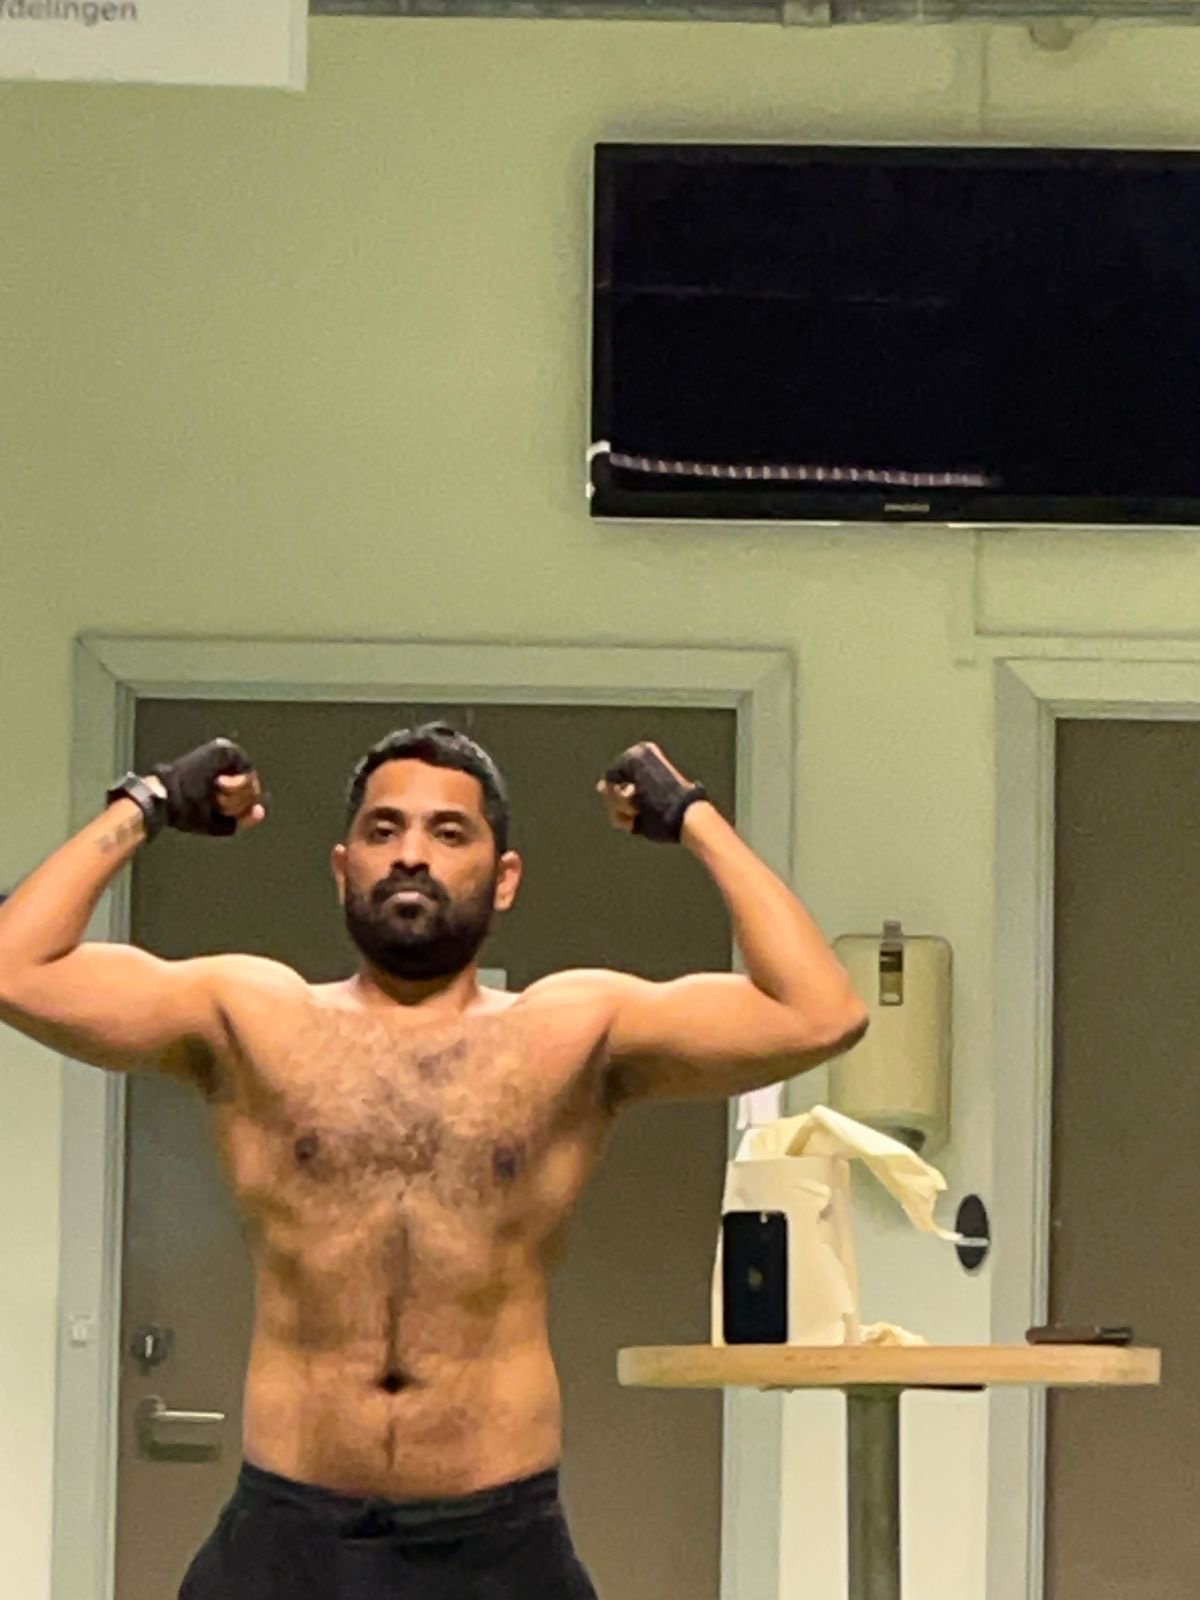
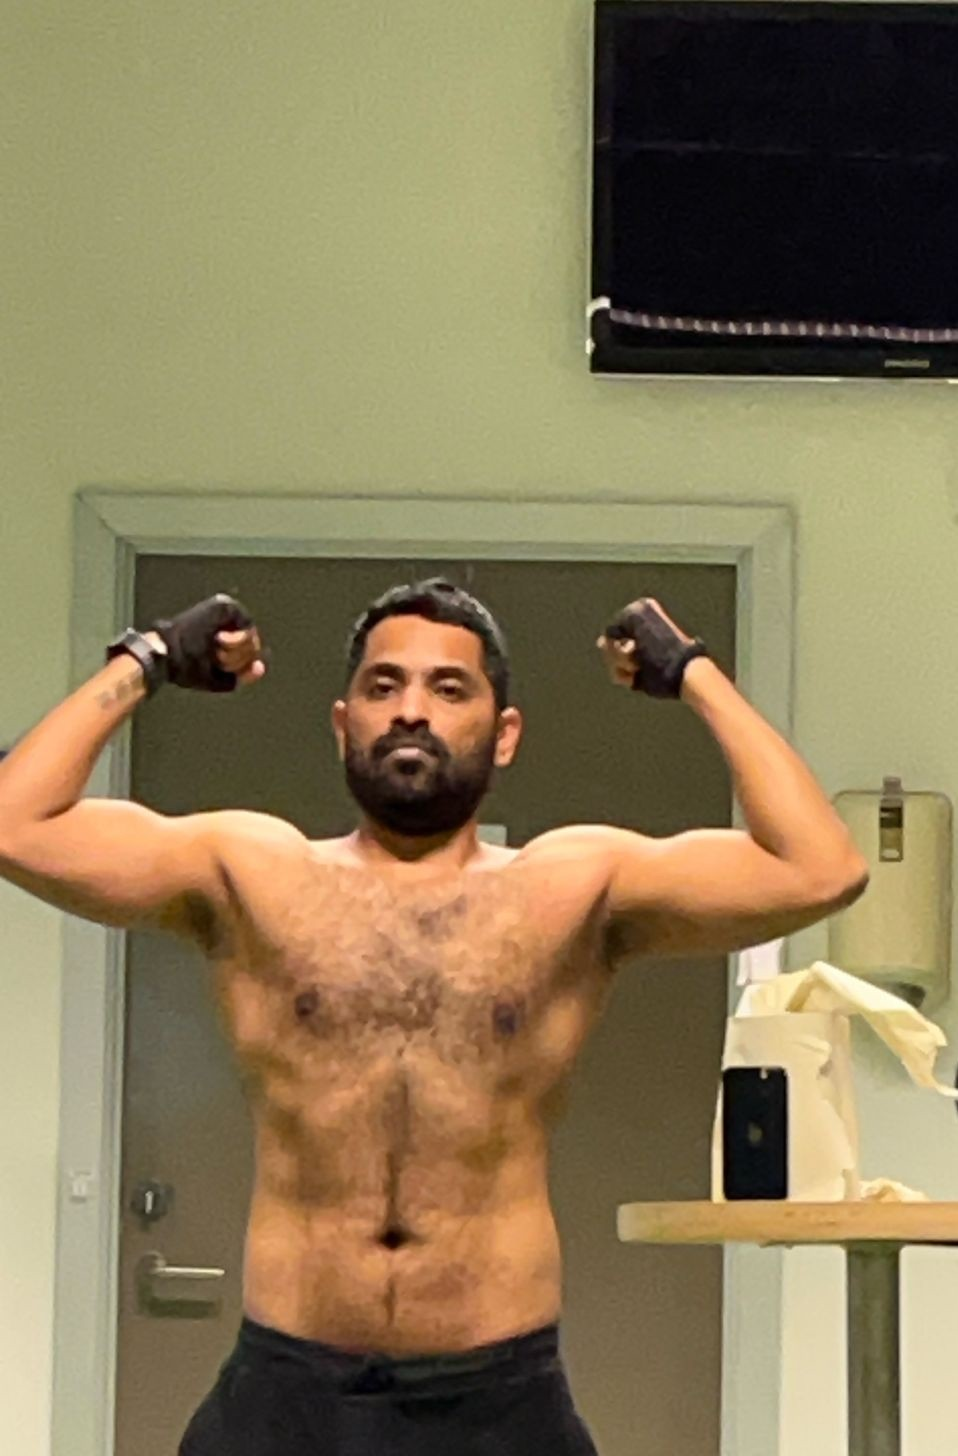
photos modified and added tiem line

diff --git a/src/routes/about.tsx b/src/routes/about.tsx
@@ -12,9 +12,7 @@ export const Route = createFileRoute("/about")({
   head: () => ({
     meta: [
       { title: "About — Duofit.club" },
-      { name: "description", content: "The story, mission, and coaching philosophy behind Duofit — a calmer, more human way to transform." },
-      { property: "og:title", content: "About — Duofit.club" },
-      { property: "og:description", content: "A calmer, more human way to transform — built on habits, nutrition and real coaching." },
+      { name: "description", content: "The story, mission, and coaching philosophy behind Duofit." },
     ],
   }),
   component: About,
@@ -32,6 +30,89 @@ const stats = [
   { value: "~9 kg", label: "Overall weight reduction" },
   { value: "5.3%", label: "Body fat reduction" },
   { value: "+6 kg", label: "Lean mass gained" },
+];
+
+const timeline = [
+  {
+    date: "SEP 18, 2024",
+    weight: "81.2 kg",
+    bf: null,
+    title: "The Decision",
+    desc: "Decided to take control of my health. No more postponing.",
+    milestone: true,
+  },
+  {
+    date: "SEP 30, 2024",
+    weight: "77.5 kg",
+    bf: null,
+    title: "Early Results",
+    desc: "Early results through consistency and effort. The habit was forming.",
+    milestone: false,
+  },
+  {
+    date: "NOV 09, 2024",
+    weight: "76.4 kg",
+    bf: null,
+    title: "Building Momentum",
+    desc: "Learning, staying consistent and building momentum week by week.",
+    milestone: false,
+  },
+  {
+    date: "MAR 23, 2025",
+    weight: "75.0 kg",
+    bf: null,
+    title: "Growing Stronger",
+    desc: "Strength improving. Confidence growing. The shift was real.",
+    milestone: true,
+  },
+  {
+    date: "JUN 19, 2025",
+    weight: "74.5 kg",
+    bf: "23.8%",
+    title: "Tracking Composition",
+    desc: "Started tracking body composition to measure real progress beyond the scale.",
+    milestone: false,
+  },
+  {
+    date: "JUL 31, 2025",
+    weight: "73.6 kg",
+    bf: "22.0%",
+    title: "Focused on Strength",
+    desc: "Focused on getting stronger and improving body composition.",
+    milestone: false,
+  },
+  {
+    date: "AUG 26, 2025",
+    weight: "75.1 kg",
+    bf: "24.8%",
+    title: "Staying Committed",
+    desc: "Fluctuations happened, but I stayed committed to the process.",
+    milestone: false,
+  },
+  {
+    date: "SEP 10, 2025",
+    weight: "75.6 kg",
+    bf: "24.3%",
+    title: "Accountability",
+    desc: "Held myself accountable and kept showing up every single day.",
+    milestone: false,
+  },
+  {
+    date: "MAY 04, 2026",
+    weight: "73.85 kg",
+    bf: "20%",
+    title: "Results Showing",
+    desc: "All the hard work started to show in numbers.",
+    milestone: true,
+  },
+  {
+    date: "MAY 19, 2026",
+    weight: "72.25 kg",
+    bf: "19%",
+    title: "A New Lifestyle",
+    desc: "A lifestyle built on discipline, not motivation.",
+    milestone: true,
+  },
 ];
 
 function About() {
@@ -59,7 +140,7 @@ function About() {
       <section className="container-editorial pb-24">
         <Reveal>
           <div className="overflow-hidden rounded-[2rem] aspect-[16/8] bg-muted">
-            <img src={lifestyleImg} alt="" className="h-full w-full object-cover" loading="lazy" width={1280} height={640} />
+            <img src={lifestyleImg} alt="" className="h-full w-full object-cover" loading="lazy" />
           </div>
         </Reveal>
       </section>
@@ -73,15 +154,9 @@ function About() {
           </Reveal>
         </div>
         <div className="lg:col-span-7 space-y-5 text-lg text-muted-foreground leading-relaxed">
-          <Reveal delay={150}>
-            <p>Duofit began with a simple frustration: most fitness coaching treats people like projects. Plans get handed down. Numbers get chased. Lives get bent around a workout.</p>
-          </Reveal>
-          <Reveal delay={250}>
-            <p>We wanted the opposite. A coaching practice that starts with your week — your work, your meals, your sleep, your stress — and gently rebuilds the rhythm from there.</p>
-          </Reveal>
-          <Reveal delay={350}>
-            <p>Today, Duofit coaches members across India and beyond — quietly, personally, and one habit at a time.</p>
-          </Reveal>
+          <Reveal delay={150}><p>Duofit began with a simple frustration: most fitness coaching treats people like projects. Plans get handed down. Numbers get chased. Lives get bent around a workout.</p></Reveal>
+          <Reveal delay={250}><p>We wanted the opposite. A coaching practice that starts with your week — your work, your meals, your sleep, your stress — and gently rebuilds the rhythm from there.</p></Reveal>
+          <Reveal delay={350}><p>Today, Duofit coaches members across India and beyond — quietly, personally, and one habit at a time.</p></Reveal>
         </div>
       </section>
 
@@ -108,12 +183,7 @@ function About() {
               ].map((photo, i) => (
                 <div key={i} className="flex flex-col gap-3">
                   <div className="overflow-hidden rounded-2xl aspect-[3/4] bg-muted">
-                    <img
-                      src={photo.src}
-                      alt={photo.label}
-                      className="h-full w-full object-cover object-top"
-                      loading="lazy"
-                    />
+                    <img src={photo.src} alt={photo.label} className="h-full w-full object-cover object-top" loading="lazy" />
                   </div>
                   <div>
                     <p className="text-xs font-medium tracking-wide text-primary uppercase">{photo.label}</p>
@@ -126,7 +196,7 @@ function About() {
 
           {/* Stats */}
           <Reveal delay={200}>
-            <div className="grid grid-cols-2 md:grid-cols-4 gap-4 mb-16">
+            <div className="grid grid-cols-2 md:grid-cols-4 gap-4 mb-20">
               {stats.map((s) => (
                 <div key={s.label} className="rounded-2xl border border-border bg-card p-6 text-center">
                   <p className="text-3xl font-bold text-primary">{s.value}</p>
@@ -135,6 +205,56 @@ function About() {
               ))}
             </div>
           </Reveal>
+
+          {/* ── TIMELINE ── */}
+          <div className="mb-20">
+            <Reveal>
+              <div className="mb-10">
+                <span className="eyebrow">— Journey timeline</span>
+                <h3 className="mt-4 text-3xl md:text-4xl">Every step, tracked.</h3>
+              </div>
+            </Reveal>
+
+            <div className="relative">
+              {/* Vertical line */}
+              <div className="absolute left-[18px] md:left-1/2 top-0 bottom-0 w-px bg-border md:-translate-x-px" />
+
+              <div className="space-y-0">
+                {timeline.map((item, i) => {
+                  const isLeft = i % 2 === 0;
+                  return (
+                    <Reveal key={i} delay={i * 60}>
+                      <div className={`relative flex items-start gap-6 md:gap-0 pb-10 ${isLeft ? "md:flex-row" : "md:flex-row-reverse"}`}>
+
+                        {/* Content card */}
+                        <div className={`ml-12 md:ml-0 md:w-[calc(50%-2rem)] ${isLeft ? "md:pr-10 md:text-right" : "md:pl-10 md:text-left"}`}>
+                          <div className={`inline-block rounded-2xl border bg-card p-5 w-full ${item.milestone ? "border-primary/40 bg-primary/5" : "border-border"}`}>
+                            <p className="text-xs font-medium tracking-widest text-primary uppercase mb-1">{item.date}</p>
+                            <div className={`flex items-center gap-2 mb-2 ${isLeft ? "md:justify-end" : "md:justify-start"}`}>
+                              <span className="text-xl font-bold text-foreground">{item.weight}</span>
+                              {item.bf && (
+                                <span className="text-xs font-medium bg-primary/10 text-primary px-2 py-0.5 rounded-full">{item.bf} BF</span>
+                              )}
+                            </div>
+                            <p className="text-sm font-semibold text-foreground mb-1">{item.title}</p>
+                            <p className="text-sm text-muted-foreground leading-relaxed">{item.desc}</p>
+                          </div>
+                        </div>
+
+                        {/* Dot on line */}
+                        <div className="absolute left-[14px] md:left-1/2 md:-translate-x-1/2 mt-5 flex items-center justify-center">
+                          <div className={`rounded-full border-2 border-background shadow ${item.milestone ? "h-4 w-4 bg-primary" : "h-3 w-3 bg-muted-foreground/40"}`} />
+                        </div>
+
+                        {/* Empty side for desktop */}
+                        <div className="hidden md:block md:w-[calc(50%-2rem)]" />
+                      </div>
+                    </Reveal>
+                  );
+                })}
+              </div>
+            </div>
+          </div>
 
           {/* Story text */}
           <div className="grid lg:grid-cols-12 gap-12 items-start">
@@ -146,18 +266,10 @@ function About() {
               </Reveal>
             </div>
             <div className="lg:col-span-8 space-y-5 text-lg text-muted-foreground leading-relaxed">
-              <Reveal delay={100}>
-                <p>For a long time, health was something I kept postponing. Work, stress, inconsistency, unhealthy eating habits, and lack of routine slowly started affecting my energy, confidence, and overall lifestyle.</p>
-              </Reveal>
-              <Reveal delay={180}>
-                <p>I had multiple failed attempts, phases where I stopped midway, and moments where progress felt too slow to continue. But eventually, I realised that transformation is not built through motivation — it is built through consistency.</p>
-              </Reveal>
-              <Reveal delay={260}>
-                <p>What started with small daily changes gradually became a complete lifestyle shift through better nutrition, structured training, and sustainable habits. Over time, the changes became visible not just physically, but mentally — more strength, more discipline, and a healthier relationship with fitness.</p>
-              </Reveal>
-              <Reveal delay={340}>
-                <p className="text-foreground font-medium">That personal journey became the foundation of DUOFIT: helping people build realistic, sustainable health habits and become better every day.</p>
-              </Reveal>
+              <Reveal delay={100}><p>For a long time, health was something I kept postponing. Work, stress, inconsistency, unhealthy eating habits, and lack of routine slowly started affecting my energy, confidence, and overall lifestyle.</p></Reveal>
+              <Reveal delay={180}><p>I had multiple failed attempts, phases where I stopped midway, and moments where progress felt too slow to continue. But eventually, I realised that transformation is not built through motivation — it is built through consistency.</p></Reveal>
+              <Reveal delay={260}><p>What started with small daily changes gradually became a complete lifestyle shift through better nutrition, structured training, and sustainable habits. Over time, the changes became visible not just physically, but mentally — more strength, more discipline, and a healthier relationship with fitness.</p></Reveal>
+              <Reveal delay={340}><p className="text-foreground font-medium">That personal journey became the foundation of DUOFIT: helping people build realistic, sustainable health habits and become better every day.</p></Reveal>
             </div>
           </div>
 
@@ -168,9 +280,7 @@ function About() {
       <section className="container-editorial py-24 md:py-32">
         <div className="max-w-2xl mb-14">
           <Reveal><span className="eyebrow">— What we believe</span></Reveal>
-          <Reveal delay={120}>
-            <h2 className="mt-5 text-4xl md:text-5xl">Four values, every plan.</h2>
-          </Reveal>
+          <Reveal delay={120}><h2 className="mt-5 text-4xl md:text-5xl">Four values, every plan.</h2></Reveal>
         </div>
         <div className="grid md:grid-cols-2 gap-5">
           {values.map((v, i) => (